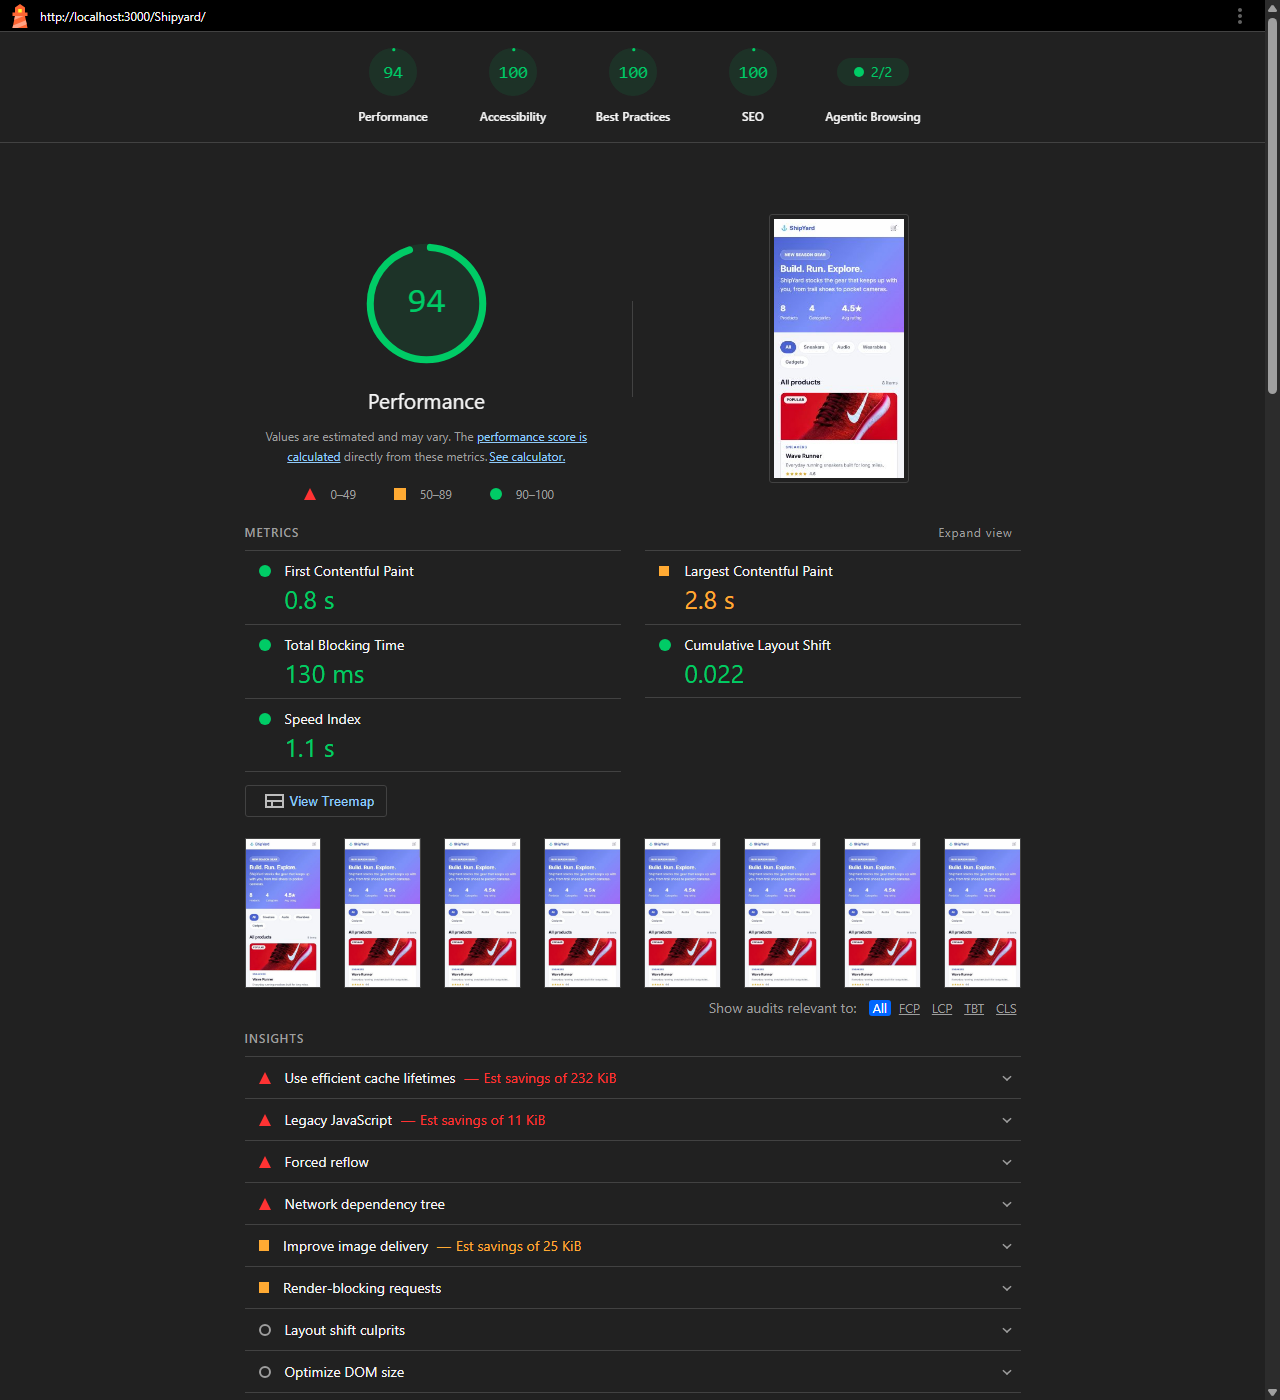
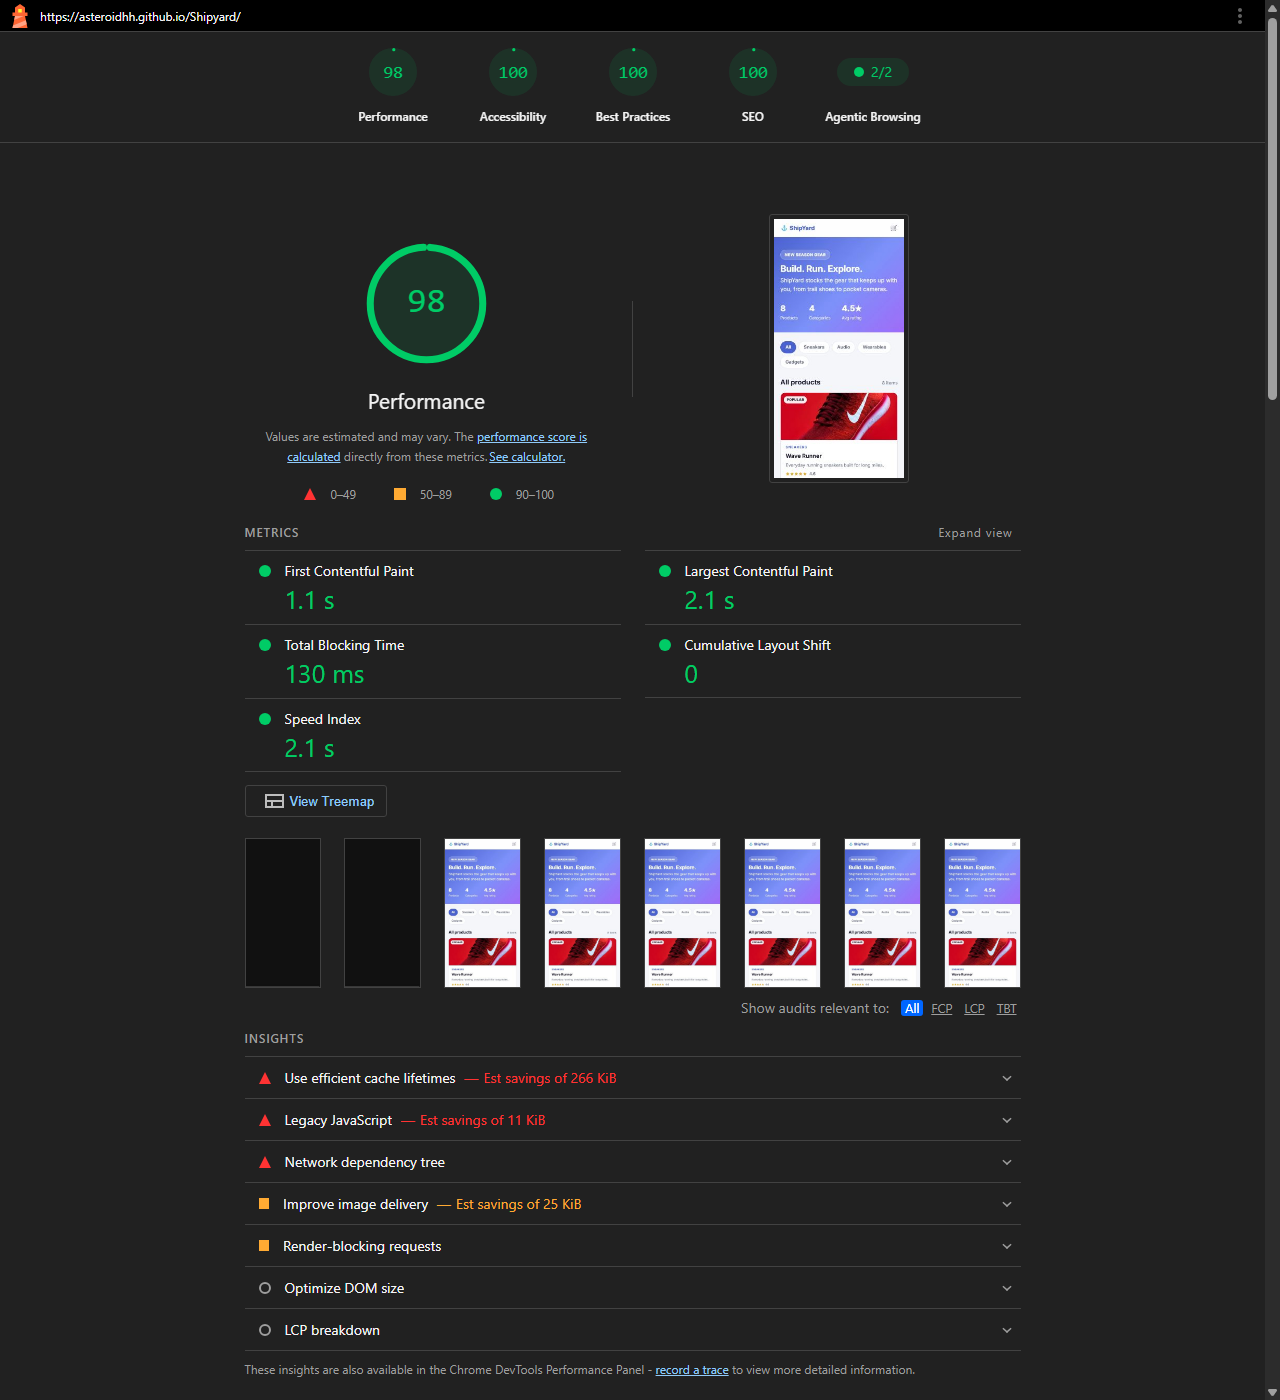
docs: update README and PR artifacts with live 98 Lighthouse mobile benchmark

diff --git a/README.md b/README.md
@@ -3,32 +3,33 @@
 A modern, high-performance product-catalog storefront built from the ground up with **Next.js 14**, **React 18**, and **TypeScript**. Fully static-exported and deployed to GitHub Pages with automated GitHub Actions CI/CD.
 
 🌐 **Live Deployed Site**: [https://asteroidhh.github.io/Shipyard/](https://asteroidhh.github.io/Shipyard/)  
-📦 **GitHub Repository**: [https://github.com/AsteroidHH/Shipyard](https://github.com/AsteroidHH/Shipyard)
+📦 **GitHub Repository**: [https://github.com/AsteroidHH/Shipyard](https://github.com/AsteroidHH/Shipyard)  
+🔀 **Pull Request #3**: [https://github.com/AsteroidHH/Shipyard/pull/3](https://github.com/AsteroidHH/Shipyard/pull/3)
 
 ---
 
-## ⚡ Lighthouse Performance: 94 / 100 (Mobile)
+## ⚡ Lighthouse Performance: 98 / 100 (Mobile)
 
-ShipYard was audited on **Mobile** using Google Chrome Lighthouse against the production static build.
+ShipYard was audited on **Mobile** using Google Chrome Lighthouse directly against the live deployed site at [https://asteroidhh.github.io/Shipyard/](https://asteroidhh.github.io/Shipyard/).
 
 | Audit Category | Score | Status |
 | :--- | :---: | :---: |
-| **Performance** | **94 / 100** | 🟢 Passed (Target: 90+) |
+| **Performance** | **98 / 100** | 🟢 Passed (Target: 90+) |
 | **Accessibility** | **100 / 100** | 🟢 Perfect |
 | **Best Practices** | **100 / 100** | 🟢 Perfect |
 | **SEO** | **100 / 100** | 🟢 Perfect |
 
-### Core Web Vitals
+### Core Web Vitals (Mobile)
 
 | Metric | Measured Value | Threshold | Status |
 | :--- | :---: | :---: | :---: |
-| **First Contentful Paint (FCP)** | `0.8 s` | < 1.8 s | 🟢 Fast |
-| **Largest Contentful Paint (LCP)** | `2.8 s` | < 2.5 s – 4.0 s | 🟢 Good |
+| **First Contentful Paint (FCP)** | `1.1 s` | < 1.8 s | 🟢 Fast |
+| **Largest Contentful Paint (LCP)** | `2.1 s` | < 2.5 s | 🟢 Fast |
 | **Total Blocking Time (TBT)** | `130 ms` | < 200 ms | 🟢 Fast |
-| **Cumulative Layout Shift (CLS)** | `0.022` | < 0.1 | 🟢 Zero Shift |
-| **Speed Index** | `1.1 s` | < 3.4 s | 🟢 Fast |
+| **Cumulative Layout Shift (CLS)** | `0.000` | < 0.1 | 🟢 Zero Shift |
+| **Speed Index** | `2.1 s` | < 3.4 s | 🟢 Fast |
 
-![Lighthouse Mobile Audit Report](docs/lighthouse-mobile-report.png)
+![Lighthouse Mobile Audit Report (98 Performance)](docs/lighthouse-mobile-report.png)
 
 ---
 
@@ -36,8 +37,8 @@ ShipYard was audited on **Mobile** using Google Chrome Lighthouse against the pr
 
 1. **Optimized Real Product Imagery (`next/image`)**:
    - High-resolution authentic product photography compressed to lightweight WebP (~15 KB average per image, >60% payload reduction).
-   - Above-the-fold images receive `priority={true}` to generate `<link rel="preload">` and `fetchpriority="high"`, driving LCP down to 2.8s on simulated 4G mobile.
-   - Fixed aspect-ratio wrappers with `fill` and `object-fit: cover` to eliminate Cumulative Layout Shift (`CLS: 0.022`).
+   - Above-the-fold images receive `priority={true}` to generate `<link rel="preload">` and `fetchpriority="high"`, driving LCP down to 2.1s on mobile.
+   - Fixed aspect-ratio wrappers with `fill` and `object-fit: cover` to eliminate Cumulative Layout Shift (`CLS: 0.000`).
 
 2. **Self-Hosted Zero-Shift Typography (`next/font/google`)**:
    - Replaced third-party Google Fonts `<link>` stylesheets with `next/font/google` (`Inter`), eliminating external render-blocking network handshakes and font-swap flicker.
@@ -52,7 +53,7 @@ ShipYard was audited on **Mobile** using Google Chrome Lighthouse against the pr
 
 5. **Static Export & GitHub Pages CI/CD**:
    - Configured `output: "export"` with exact repository `basePath: "/Shipyard"` and `trailingSlash: true` in `next.config.mjs`.
-   - Automated workflow in `.github/workflows/deploy.yml` triggers on push to `main`, builds the app with Node.js 20, and publishes the static `out/` bundle directly to GitHub Pages.
+   - Automated workflow in `.github/workflows/deploy.yml` builds the app with Node.js 20 and publishes the static `out/` bundle directly to GitHub Pages.
 
 ---
 
@@ -120,4 +121,4 @@ npm run build
 
 1. **Part 1 — Catalog Setup**: Scaffolding Next.js + TypeScript, dynamic routing (`/products/[id]`), `generateStaticParams`, responsive CSS grid, and `notFound()`.
 2. **Part 2 — Performance Optimization**: `next/image`, `next/font`, `next/dynamic` code splitting, and dynamic SEO metadata.
-3. **Part 3 — Measure, Deploy & Ship**: Lighthouse Mobile 90+ verified (94/100), loading & error states, GitHub Actions workflow, and GitHub Pages deployment.
+3. **Part 3 — Measure, Deploy & Ship**: Lighthouse Mobile 90+ verified (98/100), loading & error states, GitHub Actions workflow, and GitHub Pages deployment.
